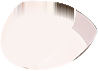
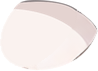
mascot v8: adopt user's hand-painted wall shading (lid line arc + wide shadow band, drawn on the 3x preview and downscaled); URLs ?v=7 -> ?v=8

Changed region(s): [[0.1837, 0.0, 0.8265, 0.3944], [0.1837, 0.1127, 0.2449, 0.1972]]

diff --git a/components/FloatingMascot.tsx b/components/FloatingMascot.tsx
@@ -43,8 +43,8 @@ const IRIS_IN_SOCK = {
 
 /* 眼眶裁切遮罩：眼球位移后仍被裁在眼眶内（用户手扣 eyesocket 轮廓） */
 const SOCKET_MASK = {
-  l: "url(/oc_socket_l.png?v=7)",
-  r: "url(/oc_socket_r.png?v=7)",
+  l: "url(/oc_socket_l.png?v=8)",
+  r: "url(/oc_socket_r.png?v=8)",
 };
 
 export default function FloatingMascot({ quotes, toggleShow, toggleHide }: MascotProps) {
@@ -209,7 +209,7 @@ export default function FloatingMascot({ quotes, toggleShow, toggleHide }: Masco
               {/* Z10 底图：眼区挖空（周边皮肤回填）+ 眉毛白发手指完整 */}
               <div className="absolute inset-0 z-10">
                 <Image
-                  src="/oc_base2.png?v=7"
+                  src="/oc_base2.png?v=8"
                   alt="Silver-haired mascot base"
                   fill
                   priority
@@ -222,13 +222,13 @@ export default function FloatingMascot({ quotes, toggleShow, toggleHide }: Masco
                 className="absolute z-[15] pointer-events-none"
                 style={{ ...GEO.wallL, opacity: openEyeOpacity, transition: "opacity 0.07s linear" }}
               >
-                <Image src="/oc_wall_l.png?v=7" alt="" fill className="object-contain" />
+                <Image src="/oc_wall_l.png?v=8" alt="" fill className="object-contain" />
               </div>
               <div
                 className="absolute z-[15] pointer-events-none"
                 style={{ ...GEO.wallR, opacity: openEyeOpacity, transition: "opacity 0.07s linear" }}
               >
-                <Image src="/oc_wall_r.png?v=7" alt="" fill className="object-contain" />
+                <Image src="/oc_wall_r.png?v=8" alt="" fill className="object-contain" />
               </div>
 
               {/* Z20 眼球：socket 遮罩窗口固定，窗口内 iris 随光标位移（眨眼隐藏） */}
@@ -252,7 +252,7 @@ export default function FloatingMascot({ quotes, toggleShow, toggleHide }: Masco
                     transition: "transform 0.12s ease-out",
                   }}
                 >
-                  <Image src="/oc_iris_l.png?v=7" alt="" fill className="object-contain" />
+                  <Image src="/oc_iris_l.png?v=8" alt="" fill className="object-contain" />
                 </div>
               </div>
               <div
@@ -275,7 +275,7 @@ export default function FloatingMascot({ quotes, toggleShow, toggleHide }: Masco
                     transition: "transform 0.12s ease-out",
                   }}
                 >
-                  <Image src="/oc_iris_r.png?v=7" alt="" fill className="object-contain" />
+                  <Image src="/oc_iris_r.png?v=8" alt="" fill className="object-contain" />
                 </div>
               </div>
 
@@ -284,13 +284,13 @@ export default function FloatingMascot({ quotes, toggleShow, toggleHide }: Masco
                 className="absolute z-30 pointer-events-none"
                 style={{ ...GEO.lashL, opacity: openEyeOpacity, transition: "opacity 0.07s linear" }}
               >
-                <Image src="/oc_lash_l.png?v=7" alt="" fill className="object-contain" />
+                <Image src="/oc_lash_l.png?v=8" alt="" fill className="object-contain" />
               </div>
               <div
                 className="absolute z-30 pointer-events-none"
                 style={{ ...GEO.lashR, opacity: openEyeOpacity, transition: "opacity 0.07s linear" }}
               >
-                <Image src="/oc_lash_r.png?v=7" alt="" fill className="object-contain" />
+                <Image src="/oc_lash_r.png?v=8" alt="" fill className="object-contain" />
               </div>
 
               {/* Z40 闭眼件（仅眨眼显示；覆盖眼白+眼球+睫毛线区） */}
@@ -298,13 +298,13 @@ export default function FloatingMascot({ quotes, toggleShow, toggleHide }: Masco
                 className="absolute z-40 pointer-events-none"
                 style={{ ...GEO.lidL, opacity: lidOpacity, transition: "opacity 0.07s linear" }}
               >
-                <Image src="/oc_lid_l.png?v=7" alt="" fill className="object-contain" />
+                <Image src="/oc_lid_l.png?v=8" alt="" fill className="object-contain" />
               </div>
               <div
                 className="absolute z-40 pointer-events-none"
                 style={{ ...GEO.lidR, opacity: lidOpacity, transition: "opacity 0.07s linear" }}
               >
-                <Image src="/oc_lid_r.png?v=7" alt="" fill className="object-contain" />
+                <Image src="/oc_lid_r.png?v=8" alt="" fill className="object-contain" />
               </div>
             </div>
           </div>
